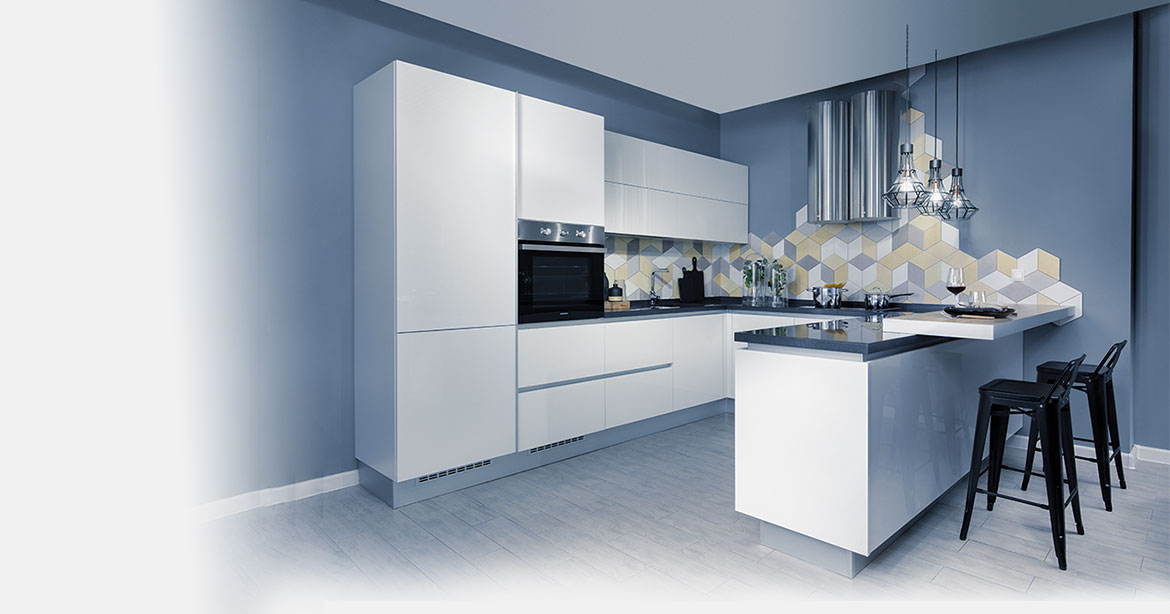
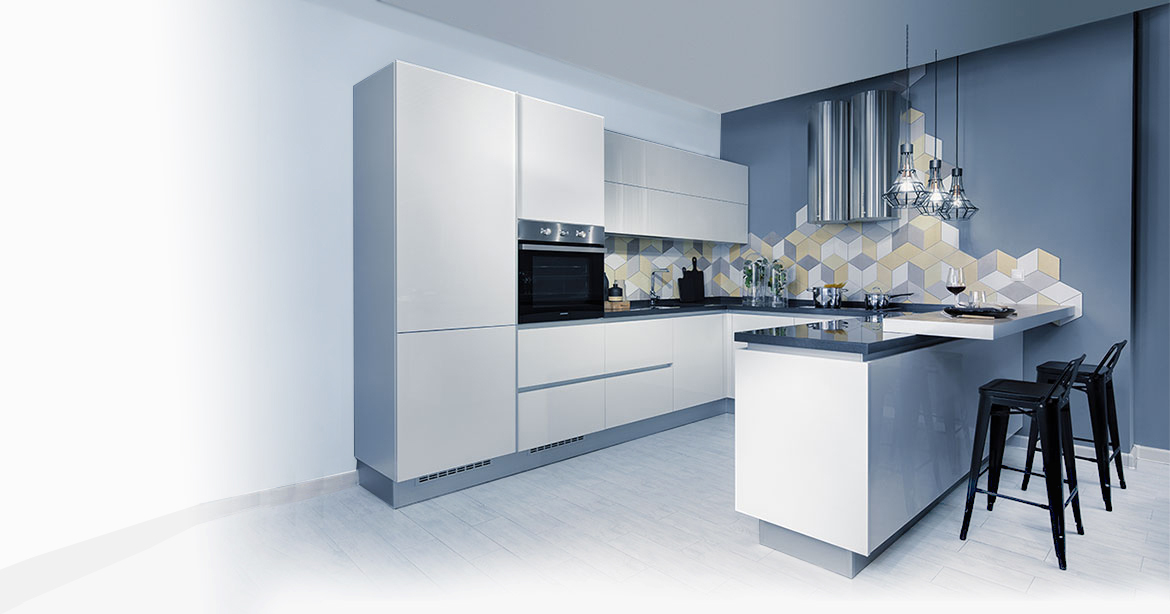
картинка на поле оффера и адаптивка

Changed region(s): [[0.1538, 0.0, 1.0, 0.9593]]

diff --git a/index.html b/index.html
@@ -77,7 +77,7 @@
         <section class="offer bg-secondary">
             <div class="container">
                 <div class="offer__block offer-block">
-                    <h2 class="offer_title">Оставьте заявку на расчет</h2>
+                    <h2 class="offer__title">Оставьте заявку на расчет</h2>
                     <span class="offer__subtitle">И получите скидку 30% на изготовление фартука для кухни или скинали</span> <!-- /.offer__subtitle -->
                     <form action="" class="form offer__form">
                         <div class="form__row">
@@ -85,7 +85,7 @@
                             <div class="form__group"><label for="" class="form__label">Ширина, см</label><input type="text" class="input form__input"></div>
                             <div class="form__group"><label for="" class="form__label">Высота, см</label><input type="text" class="input form__input"></div>
                         </div>
-                        <div class="form__row">
+                        <div class="form__row form__row-checkbox">
                             <div class="form__checkbox"><input class="checkbox" type="checkbox" id="mount"><label class="checkbox-label" for="mount">Монтаж</label></div>
                             <!-- /.form__checkbox -->
                             <div class="form__checkbox"><input class="checkbox" type="checkbox" id="delivery"><label class="checkbox-label" for="delivery">Доставка</label></div>

diff --git a/sass/style.css b/sass/style.css
@@ -115,7 +115,7 @@ input[type="checkbox"]:checked + label:before {
 }
 
 .hero {
-  background: #f1f1f1 url("../img/skinali.jpg") no-repeat center top 80px;
+  background: #f1f1f1 url("../img/skinali4.jpg") no-repeat center top 80px;
   background-size: cover;
   padding-top: 150px;
   padding-bottom: 270px;
@@ -265,14 +265,16 @@ input[type="checkbox"]:checked + label:before {
 }
 
 .offer-block {
-  background: #fff;
+  background: #fff url("../img/offer-img5.png") no-repeat center right;
+  background-size: contain;
   padding: 80px;
   margin-top: -200px;
   box-shadow: 0 15px 25px rgba(0, 0, 0, 0.1);
 }
 
 .offer__title {
-  padding: 25px;
+  padding-top: 25px;
+  padding-bottom: 25px;
   text-transform: uppercase;
   font-family: 'Proxima Nova Semibold', sans-serif;
   margin-bottom: 20px;
@@ -317,4 +319,28 @@ input[type="checkbox"]:checked + label:before {
 .form__button {
   height: 80px;
   background: #507fe1;
+  text-transform: uppercase;
+  color: #fff;
+}
+
+@media (max-width: 768px) {
+  .offer-block {
+    background: none;
+    background-color: #fff;
+    padding: 40px;
+  }
+  .form__row {
+    flex-direction: column;
+    align-items: unset;
+  }
+  .form__row-checkbox {
+    flex-direction: row;
+    align-items: center;
+  }
+  .form__group {
+    flex-basis: 100%;
+  }
+  .form__input {
+    margin-bottom: 20px;
+  }
 }

diff --git a/sass/blocks/_offer.sass b/sass/blocks/_offer.sass
@@ -1,13 +1,15 @@
 .offer
     padding: 129px 0
     &-block
-        background: #fff
+        background: #fff url('../img/offer-img5.png') no-repeat center right
+        background-size: contain
         padding: 80px
         margin-top: -200px
         box-shadow: 0 15px 25px rgba(0,0,0, 0.1)
 
     &__title
-        padding: 25px
+        padding-top: 25px
+        padding-bottom: 25px
         text-transform: uppercase
         +bold
         margin-bottom: 20px
@@ -36,7 +38,26 @@
             border-right-width: 1px
     &__button
         height: 80px
-        background: $primary             
+        background: $primary
+        text-transform: uppercase
+        color: #fff
+@media ( max-width: 768px)
+    .offer
+        &-block
+            background: none
+            background-color: #fff
+            padding: 40px
+    .form        
+        &__row
+            flex-direction: column
+            align-items: unset
+        &__row-checkbox
+            flex-direction: row
+            align-items: center    
+        &__group            
+            flex-basis: 100%
+        &__input
+            margin-bottom: 20px                            
 
 
 

diff --git a/sass/_hero.sass b/sass/_hero.sass
@@ -1,5 +1,5 @@
 .hero
-    background: #f1f1f1 url('../img/skinali.jpg') no-repeat center top 80px
+    background: #f1f1f1 url('../img/skinali4.jpg') no-repeat center top 80px
     background-size: cover
     padding-top: 150px
     padding-bottom: 270px
